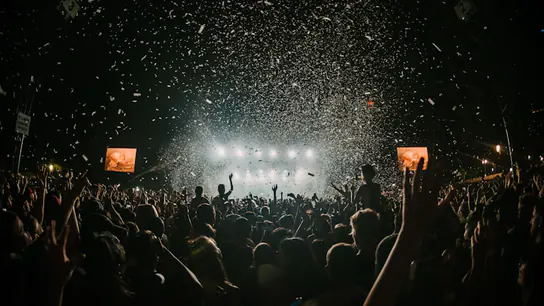
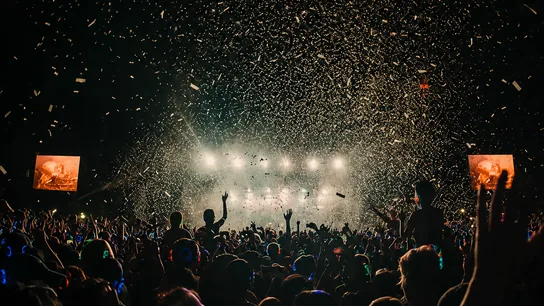
Replace all 26 usecase photos, align the calendar to the form column
The uc-card gallery ("Silent-досвіди") gets an entirely new photo set — cropped
from the square originals in images/uc1 to the existing 544x306 frame, matched
by content to each card's theme (wedding couple to Весілля, outdoor beach
screening to Кіно просто неба, and so on for all 26), re-encoded as webp at
the same size the site already served, and their LQIP blur placeholders
regenerated so the loading blur matches the new photo instead of the old one's
colors.

The calendar panel next to the booking form used to reach its two-point
alignment (top flush with the "guests" field, bottom flush with the submit
button) through a hand-tuned margin — explained in its own comment — that
assumed a fixed set of fields in the column beside it. Adding the "how did you
hear about us" field earlier broke that assumption: the column grew taller and
the calendar drifted out of alignment. Replaced the fixed margin with a
measure-and-set function that reads the actual position of both anchor points
and sets the panel's margin-top and height to match exactly, re-running on
resize, after web fonts load, and via a ResizeObserver on the column itself —
so it keeps working through any future change to that column's height instead
of needing to be re-tuned by hand again.

diff --git a/index.html b/index.html
@@ -1496,11 +1496,14 @@
   /* Займає порожнє місце під списком у лівій колонці. Те саме матове скло, що
      й у полів форми, тільки панеллю. */
   .cal {
-    margin-top: auto;           /* притискаємо до низу колонки */
     /* Прив'язки дві: верх панелі лягає на верхній край поля «Скільки гостей»,
-       а нижній підпис — на рядок усередині кнопки. Обидві дає один відступ
-       знизу: висота панелі вже підібрана під цей проміжок висотою клітинок. */
-    margin-bottom: 5px;
+       низ панелі — на нижній край кнопки «Надіслати заявку». Обидві рахує
+       alignCalendarToForm() у JS: поля форми міняються (додається чи
+       зникає рядок), тож фіксований відступ/висота тут же розійшлися б —
+       margin-top і height нижче лише запасні значення до першого прорахунку. */
+    margin-top: 0; margin-bottom: 0;
+    box-sizing: border-box;
+    display: flex; flex-direction: column;
     border: 1px solid var(--line); border-top-color: var(--glass-edge);
     border-radius: 18px;
     background: rgba(255,255,255,0.035);
@@ -1530,7 +1533,14 @@
   }
   .cal-nav:hover { border-color: rgba(198,255,0,0.5); color: var(--lime); background: rgba(198,255,0,0.09); }
 
-  .cal-week, .cal-grid { display: grid; grid-template-columns: repeat(7, 1fr); gap: 4px; }
+  .cal-week { display: grid; grid-template-columns: repeat(7, 1fr); gap: 4px; }
+  /* flex:1 — сітка днів сама з'їдає (чи віддає) різницю, коли JS підганяє
+     висоту .cal під поле «Скільки гостей» і кнопку: рядки тижнів рівномірно
+     трохи вищі або нижчі за 32px, а не порожній відступ під низом сітки. */
+  .cal-grid {
+    display: grid; grid-template-columns: repeat(7, 1fr); grid-auto-rows: minmax(22px, 1fr);
+    gap: 4px; flex: 1;
+  }
   /* Дні тижня губились сірим на тлі цифр — тепер яскравіші, важчі й відділені
      лінією, тож шапка сітки читається як шапка. */
   .cal-week {
@@ -1540,11 +1550,6 @@
     color: rgba(255,255,255,0.55); text-align: center;
   }
   .cal-day {
-    /* Не квадрат: на всю ширину колонки квадратні клітинки зробили б календар
-       удвічі вищим за решту колонки. Фіксована висота лишає його компактним,
-       а клітинки просто стають ширшими. Висота підібрана так, щоб панель
-       рівно вкладалась між рядком «Скільки гостей» і кнопкою праворуч. */
-    height: 32px;
     display: grid; place-items: center;
     border: 1px solid transparent; border-radius: 10px;
     background: none; color: rgba(255,255,255,0.86);
@@ -2774,7 +2779,7 @@
         <div class="uc-row" data-row="a">
       <article class="uc-card" data-uc="Весілля">
         <div class="uc-media">
[2 lines of base64/hex data omitted]
         </div>
         <div class="uc-body">
           <h3>Весілля</h3>
@@ -2784,7 +2789,7 @@
       </article>
       <article class="uc-card" data-uc="Кіно просто неба">
         <div class="uc-media">
[2 lines of base64/hex data omitted]
         </div>
         <div class="uc-body">
           <h3>Кіно просто неба</h3>
@@ -2794,7 +2799,7 @@
       </article>
       <article class="uc-card" data-uc="Студентські події">
         <div class="uc-media">
[2 lines of base64/hex data omitted]
         </div>
         <div class="uc-body">
           <h3>Студентські події</h3>
@@ -2804,7 +2809,7 @@
       </article>
       <article class="uc-card" data-uc="Презентація релізу">
         <div class="uc-media">
[2 lines of base64/hex data omitted]
         </div>
         <div class="uc-body">
           <h3>Презентація релізу</h3>
@@ -2814,7 +2819,7 @@
       </article>
       <article class="uc-card" data-uc="Драйв-ін формат">
         <div class="uc-media">
[2 lines of base64/hex data omitted]
         </div>
         <div class="uc-body">
           <h3>Драйв-ін формат</h3>
@@ -2824,7 +2829,7 @@
       </article>
       <article class="uc-card" data-uc="Музичні коледжі">
         <div class="uc-media">
[2 lines of base64/hex data omitted]
         </div>
         <div class="uc-body">
           <h3>Музичні коледжі</h3>
@@ -2834,7 +2839,7 @@
       </article>
       <article class="uc-card" data-uc="Фестивалі">
         <div class="uc-media">
[2 lines of base64/hex data omitted]
         </div>
         <div class="uc-body">
           <h3>Фестивалі</h3>
@@ -2844,7 +2849,7 @@
       </article>
       <article class="uc-card" data-uc="Музеї та галереї">
         <div class="uc-media">
[2 lines of base64/hex data omitted]
         </div>
         <div class="uc-body">
           <h3>Музеї та галереї</h3>
@@ -2854,7 +2859,7 @@
       </article>
       <article class="uc-card" data-uc="Благодійні гала">
         <div class="uc-media">
[2 lines of base64/hex data omitted]
         </div>
         <div class="uc-body">
           <h3>Благодійні гала</h3>
@@ -2864,7 +2869,7 @@
       </article>
       <article class="uc-card" data-uc="Шкільні свята">
         <div class="uc-media">
[2 lines of base64/hex data omitted]
         </div>
         <div class="uc-body">
           <h3>Шкільні свята</h3>
@@ -2874,7 +2879,7 @@
       </article>
       <article class="uc-card" data-uc="Церковні та молодіжні табори">
         <div class="uc-media">
[2 lines of base64/hex data omitted]
         </div>
         <div class="uc-body">
           <h3>Церковні та молодіжні табори</h3>
@@ -2884,7 +2889,7 @@
       </article>
       <article class="uc-card" data-uc="Silent disco">
         <div class="uc-media">
[2 lines of base64/hex data omitted]
         </div>
         <div class="uc-body">
           <h3>Silent disco</h3>
@@ -2894,7 +2899,7 @@
       </article>
       <article class="uc-card" data-uc="Дні народження">
         <div class="uc-media">
[2 lines of base64/hex data omitted]
         </div>
         <div class="uc-body">
           <h3>Дні народження</h3>
@@ -2906,7 +2911,7 @@
         <div class="uc-row" data-row="b">
       <article class="uc-card" data-uc="Конференції">
         <div class="uc-media">
[2 lines of base64/hex data omitted]
         </div>
         <div class="uc-body">
           <h3>Конференції</h3>
@@ -2916,7 +2921,7 @@
       </article>
       <article class="uc-card" data-uc="Екскурсії">
         <div class="uc-media">
[2 lines of base64/hex data omitted]
         </div>
         <div class="uc-body">
           <h3>Екскурсії</h3>
@@ -2926,7 +2931,7 @@
       </article>
       <article class="uc-card" data-uc="Табори та молодіжні збори">
         <div class="uc-media">
[2 lines of base64/hex data omitted]
         </div>
         <div class="uc-body">
           <h3>Табори та молодіжні збори</h3>
@@ -2936,7 +2941,7 @@
       </article>
       <article class="uc-card" data-uc="Діджей-сет наживо">
         <div class="uc-media">
[2 lines of base64/hex data omitted]
         </div>
         <div class="uc-body">
           <h3>Діджей-сет наживо</h3>
@@ -2946,7 +2951,7 @@
       </article>
       <article class="uc-card" data-uc="Церковні служби та зібрання">
         <div class="uc-media">
[2 lines of base64/hex data omitted]
         </div>
         <div class="uc-body">
           <h3>Церковні служби та зібрання</h3>
@@ -2956,7 +2961,7 @@
       </article>
       <article class="uc-card" data-uc="Корпоративи">
         <div class="uc-media">
[2 lines of base64/hex data omitted]
         </div>
         <div class="uc-body">
           <h3>Корпоративи</h3>
@@ -2966,7 +2971,7 @@
       </article>
       <article class="uc-card" data-uc="Йога та ecstatic dance">
         <div class="uc-media">
[2 lines of base64/hex data omitted]
         </div>
         <div class="uc-body">
           <h3>Йога та ecstatic dance</h3>
@@ -2976,7 +2981,7 @@
       </article>
       <article class="uc-card" data-uc="Камерні концерти">
         <div class="uc-media">
[2 lines of base64/hex data omitted]
         </div>
         <div class="uc-body">
           <h3>Камерні концерти</h3>
@@ -2986,7 +2991,7 @@
       </article>
       <article class="uc-card" data-uc="Інклюзивні події">
         <div class="uc-media">
[2 lines of base64/hex data omitted]
         </div>
         <div class="uc-body">
           <h3>Інклюзивні події</h3>
@@ -2996,7 +3001,7 @@
       </article>
       <article class="uc-card" data-uc="Громадські зібрання">
         <div class="uc-media">
[2 lines of base64/hex data omitted]
         </div>
         <div class="uc-body">
           <h3>Громадські зібрання</h3>
@@ -3006,7 +3011,7 @@
       </article>
       <article class="uc-card" data-uc="Ярмарки та маркети">
         <div class="uc-media">
[2 lines of base64/hex data omitted]
         </div>
         <div class="uc-body">
           <h3>Ярмарки та маркети</h3>
@@ -3016,7 +3021,7 @@
       </article>
       <article class="uc-card" data-uc="Іммерсивні театри">
         <div class="uc-media">
[2 lines of base64/hex data omitted]
         </div>
         <div class="uc-body">
           <h3>Іммерсивні театри</h3>
@@ -3026,7 +3031,7 @@
       </article>
       <article class="uc-card" data-uc="Спортивні події">
         <div class="uc-media">
[2 lines of base64/hex data omitted]
         </div>
         <div class="uc-body">
           <h3>Спортивні події</h3>
@@ -4664,6 +4669,56 @@
     });
 
     render();
+  })();
+
+  // ---- Вирівнювання панелі календаря під поля форми ----
+  // Верх .cal лягає на верхній край поля «Скільки гостей», низ — на нижній
+  // край кнопки «Надіслати заявку». Рахуємо в JS, а не фіксованими
+  // відступами: набір полів праворуч не сталий (з'являється підказка з
+  // калькулятора, може дописатись поле), і будь-який зашитий відступ тут же
+  // розійшовся б із сусідньою колонкою — так і сталось, коли додали поле
+  // «Як ви про нас дізналися».
+  (function(){
+    const cal = document.getElementById('cal');
+    const guests = document.getElementById('guests');
+    const submit = document.getElementById('submitBtn');
+    const formRight = document.querySelector('.form-right');
+    if (!cal || !guests || !submit || !formRight) return;
+
+    function alignCalendarToForm(){
+      if (getComputedStyle(cal).display === 'none') return; // ховається нижче 860px
+      const guestsField = guests.closest('.field') || guests;
+      cal.style.marginTop = '0px';
+      cal.style.height = 'auto';
+      const calTop = cal.getBoundingClientRect().top;
+      const guestsTop = guestsField.getBoundingClientRect().top;
+      const submitBottom = submit.getBoundingClientRect().bottom;
+      const marginTop = Math.max(0, guestsTop - calTop);
+      cal.style.marginTop = marginTop + 'px';
+      const height = submitBottom - (calTop + marginTop);
+      if (height > 0) cal.style.height = height + 'px';
+    }
+
+    alignCalendarToForm();
+    if (document.fonts && document.fonts.ready){ document.fonts.ready.then(alignCalendarToForm); }
+
+    let alignW = window.innerWidth;
+    window.addEventListener('resize', () => {
+      if (window.innerWidth === alignW) return;
+      alignW = window.innerWidth;
+      alignCalendarToForm();
+    });
+
+    // Ловить будь-яку зміну висоти правої колонки — підказку з калькулятора,
+    // майбутнє поле, перенесення довгого лейбла на другий рядок — без
+    // прив'язки до конкретного місця в коді, яке цю висоту міняє.
+    if (window.ResizeObserver){
+      let raf = null;
+      new ResizeObserver(() => {
+        cancelAnimationFrame(raf);
+        raf = requestAnimationFrame(alignCalendarToForm);
+      }).observe(formRight);
+    }
   })();
 
   // ---- FAQ accordion ----
